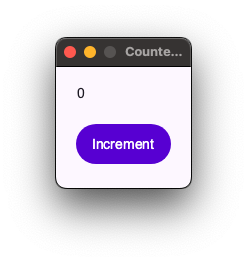
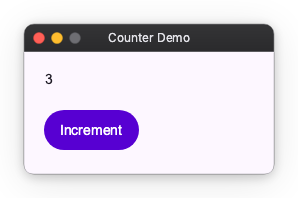
docs: fix outdated API references and simplify README examples (#109)
- Replace deprecated FilledButton/TextButton/OutlinedButton with Button
- Remove explicit style= arguments to use default Button style
- Remove explicit style= arguments from TextField in README
- Update design docs: NAVIGATION, STYLE_THEME, TEXT_EDITING
- Add readme samples to render_layout_images.py SAMPLES list
- Simplify sample main() signatures to accept png: str = '' directly
- Set sample preview values when rendering to PNG

diff --git a/src/samples/readme/readme_multi_counter_app.py b/src/samples/readme/readme_multi_counter_app.py
@@ -2,8 +2,6 @@ from __future__ import annotations
 import nuiitivet as nv
 import nuiitivet.material as md
 
-import argparse
-
 
 class MultiCounterApp(nv.ComposableWidget):
     def __init__(self) -> None:
@@ -24,14 +22,14 @@ class MultiCounterApp(nv.ComposableWidget):
                 nv.Row(
                     [
                         md.Text(self.count_a),
-                        md.FilledButton("+", on_click=self.increment_a),
+                        md.Button("+", on_click=self.increment_a),
                     ],
                     gap=12,
                 ),
                 nv.Row(
                     [
                         md.Text(self.count_b),
-                        md.FilledButton("+", on_click=self.increment_b),
+                        md.Button("+", on_click=self.increment_b),
                     ],
                     gap=12,
                 ),
@@ -42,20 +40,20 @@ class MultiCounterApp(nv.ComposableWidget):
         )
 
 
-def _parse_args() -> argparse.Namespace:
-    parser = argparse.ArgumentParser(description="README MultiCounterApp sample")
-    parser.add_argument("--png", type=str, default="", help="Render to PNG instead of opening a window")
-    return parser.parse_args()
+def main(png: str = "") -> None:
+    app_widget = MultiCounterApp()
+    if png:
+        app_widget.count_a.value = 3
+        app_widget.count_b.value = 5
+    app = md.App(
+        content=app_widget,
+        title_bar=nv.DefaultTitleBar(title="Multi Counter Demo"),
+        width=250,
+    )
 
-
-def main() -> None:
-    args = _parse_args()
-
-    app = md.App(content=MultiCounterApp())
-
-    if args.png:
-        app.render_to_png(args.png)
-        print(f"Rendered {args.png}")
+    if png:
+        app.render_to_png(png)
+        print(f"Rendered {png}")
         return
 
     app.run()

diff --git a/src/samples/readme/readme_counter_app.py b/src/samples/readme/readme_counter_app.py
@@ -2,8 +2,6 @@ from __future__ import annotations
 import nuiitivet as nv
 import nuiitivet.material as md
 
-import argparse
-
 
 class CounterApp(nv.ComposableWidget):
     def __init__(self) -> None:
@@ -17,7 +15,7 @@ class CounterApp(nv.ComposableWidget):
         return nv.Column(
             [
                 md.Text(self.count),
-                md.FilledButton(
+                md.Button(
                     "Increment",
                     on_click=self.increment,
                 ),
@@ -27,20 +25,19 @@ class CounterApp(nv.ComposableWidget):
         )
 
 
-def _parse_args() -> argparse.Namespace:
-    parser = argparse.ArgumentParser(description="README CounterApp sample")
-    parser.add_argument("--png", type=str, default="", help="Render to PNG instead of opening a window")
-    return parser.parse_args()
+def main(png: str = "") -> None:
+    app_widget = CounterApp()
+    if png:
+        app_widget.count.value = 3
+    app = md.App(
+        content=app_widget,
+        title_bar=nv.DefaultTitleBar(title="Counter Demo"),
+        width=250,
+    )
 
-
-def main() -> None:
-    args = _parse_args()
-
-    app = md.App(content=CounterApp(), title_bar=nv.DefaultTitleBar(title="Counter Demo"))
-
-    if args.png:
-        app.render_to_png(args.png)
-        print(f"Rendered {args.png}")
+    if png:
+        app.render_to_png(png)
+        print(f"Rendered {png}")
         return
 
     app.run()

diff --git a/src/samples/readme/readme_login_form.py b/src/samples/readme/readme_login_form.py
@@ -2,8 +2,6 @@ from __future__ import annotations
 import nuiitivet as nv
 import nuiitivet.material as md
 
-import argparse
-
 
 def build_login_form():
     return nv.Column(
@@ -12,15 +10,13 @@ def build_login_form():
                 value="",
                 label="Username",
                 width=300,
-                style=md.TextFieldStyle.outlined(),
             ),
             md.TextField(
                 value="",
                 label="Password",
                 width=300,
-                style=md.TextFieldStyle.outlined(),
             ),
-            md.FilledButton(
+            md.Button(
                 "Login",
                 on_click=lambda: print("Login clicked"),
                 width=300,
@@ -31,20 +27,12 @@ def build_login_form():
     )
 
 
-def _parse_args() -> argparse.Namespace:
-    parser = argparse.ArgumentParser(description="README login form sample")
-    parser.add_argument("--png", type=str, default="", help="Render to PNG instead of opening a window")
-    return parser.parse_args()
-
-
-def main() -> None:
-    args = _parse_args()
-
+def main(png: str = "") -> None:
     app = md.App(content=build_login_form(), title_bar=nv.DefaultTitleBar(title="Login Form"))
 
-    if args.png:
-        app.render_to_png(args.png)
-        print(f"Rendered {args.png}")
+    if png:
+        app.render_to_png(png)
+        print(f"Rendered {png}")
         return
 
     app.run()

diff --git a/src/samples/readme/readme_layout_demo.py b/src/samples/readme/readme_layout_demo.py
@@ -2,8 +2,6 @@ from __future__ import annotations
 import nuiitivet as nv
 import nuiitivet.material as md
 
-import argparse
-
 
 def build_layout_demo():
     return nv.Column(
@@ -13,8 +11,8 @@ def build_layout_demo():
             md.Text("Body", padding=10),
             nv.Row(
                 children=[
-                    md.FilledButton("OK"),
-                    md.TextButton("Cancel"),
+                    md.Button("OK"),
+                    md.Button("Cancel"),
                 ],
                 gap=12,
                 main_alignment="end",
@@ -27,20 +25,12 @@ def build_layout_demo():
     )
 
 
-def _parse_args() -> argparse.Namespace:
-    parser = argparse.ArgumentParser(description="README layout demo sample")
-    parser.add_argument("--png", type=str, default="", help="Render to PNG instead of opening a window")
-    return parser.parse_args()
-
-
-def main() -> None:
-    args = _parse_args()
-
+def main(png: str = "") -> None:
     app = md.App(content=build_layout_demo(), title_bar=nv.DefaultTitleBar(title="Layout Demo"))
 
-    if args.png:
-        app.render_to_png(args.png)
-        print(f"Rendered {args.png}")
+    if png:
+        app.render_to_png(png)
+        print(f"Rendered {png}")
         return
 
     app.run()

diff --git a/scripts/docs/render_layout_images.py b/scripts/docs/render_layout_images.py
@@ -84,6 +84,10 @@ SAMPLES = [
     ("src/samples/navigation/route.py", "navigation_route.png"),
     ("src/samples/navigation/intent.py", "navigation_intent.png"),
     ("src/samples/navigation/sub.py", "navigation_sub.png"),
+    # README samples
+    ("src/samples/readme/readme_login_form.py", "readme_login_form.png"),
+    ("src/samples/readme/readme_counter_app.py", "readme_counter.png"),
+    ("src/samples/readme/readme_multi_counter_app.py", "readme_multi_counter.png"),
 ]
 
 

diff --git a/README.md b/README.md
@@ -26,16 +26,14 @@ login_form = Column(
             value="",
             label="Username",
             width=300,
-            style=TextFieldStyle.outlined(),
         ),
         TextField(
             value="",
             label="Password",
             width=300,
-            style=TextFieldStyle.outlined(),
         ),
         # Login Button
-        FilledButton(
+        Button(
             "Login",
             on_click=lambda: print("Login clicked"),
             width=300,
@@ -135,7 +133,7 @@ class CounterApp(ComposableWidget):
                 # Count display
                 Text(self.count),
                 # Increment button
-                FilledButton(
+                Button(
                     "Increment",
                     on_click=self.increment,
                 )
@@ -176,14 +174,14 @@ You can read from the code that `total` is defined as the sum of `count_a` and `
                 Row(
                     [
                         Text(self.count_a.value),
-                        FilledButton("+", on_click=self.increment_a),
+                        Button("+", on_click=self.increment_a),
                     ],
                 ),
                 # Counter B
                 Row(
                     [
                         Text(self.count_b.value),
-                        FilledButton("+", on_click=self.increment_b),
+                        Button("+", on_click=self.increment_b),
                     ],
                 ),
                 # Just specify total!
@@ -222,7 +220,7 @@ class CounterApp(ComposableWidget):
         return Column(
             [
                 Text(f"count: {self.count.value}"),
-                FilledButton(
+                Button(
                     "Increment",
                     on_click=self.handle_increment,  # Execute on click
                 )
@@ -274,7 +272,7 @@ To create an application with Nuiitivet, follow these two steps:
 
 ```python
 from nuiitivet.material.app import MaterialApp
-from nuiitivet.material import Text, FilledButton
+from nuiitivet.material import Text, Button
 from nuiitivet.layout.column import Column
 from nuiitivet.observable import Observable
 from nuiitivet.widgeting.widget import ComposableWidget
@@ -297,7 +295,7 @@ class CounterApp(ComposableWidget):
         return Column(
             [
                 Text(self.count),
-                FilledButton(
+                Button(
                     "Increment",
                     on_click=self.handle_increment,
                 )

diff --git a/docs/design/STYLE_THEME.md b/docs/design/STYLE_THEME.md
@@ -361,35 +361,29 @@ src/nuiitivet/
 - Defines component tokens (container, label, etc.)
 - Our `Style` classes map directly to M3 component tokens
 
-## Example: Complete Button Styles in Theme
+## Example: Button Style Presets (Factory-Driven)
+
+Button styles are not stored as separate fields in `Theme`. Instead, `ButtonStyle` provides factory methods that generate M3-compliant presets, and the optional size variant is passed as an argument:
 
 ```python
-@dataclass(frozen=True)
-class Theme:
-    # ...existing fields...
-    
-    # Button style variants (M3)
-    filled_button_style: ButtonStyle = field(default_factory=lambda: ButtonStyle(
-        background=ColorRole.PRIMARY,
-        foreground=ColorRole.ON_PRIMARY,
-    ))
-    
-    text_button_style: ButtonStyle = field(default_factory=lambda: ButtonStyle(
-        background=None,
-        foreground=ColorRole.PRIMARY,
-        padding=10,
-        min_size=(64, 40),
-    ))
-    
-    outlined_button_style: ButtonStyle = field(default_factory=lambda: ButtonStyle(
-        background=None,
-        foreground=ColorRole.PRIMARY,
-        border_color=ColorRole.OUTLINE,
-        border_width=1.5,
-    ))
-    
-    # Helper method
-    def button_style_for(self, variant: str) -> ButtonStyle:
-        """Get button style for variant name."""
-        return getattr(self, f"{variant}_button_style", self.filled_button_style)
+# Filled button (M3 default)
+style = ButtonStyle.filled()
+
+# Text button
+style = ButtonStyle.text()
+
+# Outlined button
+style = ButtonStyle.outlined()
+
+# Size variant (e.g., small)
+style = ButtonStyle.filled("s")
 ```
+
+Usage at the call site:
+
+```python
+Button("OK", on_click=handler, style=ButtonStyle.filled())
+Button("Cancel", on_click=handler, style=ButtonStyle.text())
+```
+
+> **Historical note**: An earlier proposal stored per-variant fields (`filled_button_style`, `text_button_style`, `outlined_button_style`) directly on `Theme` and provided a `button_style_for(variant)` helper. This approach was replaced by the factory-driven design above to keep `Theme` focused on color/typography tokens.

diff --git a/docs/design/TEXT_EDITING.md b/docs/design/TEXT_EDITING.md
@@ -24,26 +24,22 @@ A simple structure holding `start` and `end` indices. It provides helper methods
 
 ### TextField Architecture (M3)
 
-The `TextField` widget follows the Material Design 3 specification and is structured to support multiple visual variants while sharing core logic.
+The `TextField` widget follows the Material Design 3 specification and uses a single class driven by a `TextFieldStyle` preset to support multiple visual variants.
 
-- **Base Class (`TextField`)**:
+- **Single Class (`TextField`)**:
   - Handles all interaction logic (focus, keyboard, mouse, IME).
   - Manages the internal state (`TextEditingValue`).
-  - Implements the core rendering pipeline (Template Method pattern).
-  - Defines abstract/hook methods for variant-specific rendering (e.g., `_draw_container`).
-
-- **Concrete Classes**:
-  - **`TextField`**: Implements the M3 "Filled" style with a background container and bottom indicator.
-  - **`TextField`**: Implements the M3 "Outlined" style with a border and transparent background.
+  - Implements the full rendering pipeline.
+  - Visual variant (filled / outlined) is determined by `TextFieldStyle.mode`.
 
 - **Styling (`TextFieldStyle`)**:
   - An immutable dataclass (`frozen=True`) defining all visual properties (colors, dimensions, fonts).
+  - `mode` field (`"filled"` | `"outlined"`) controls the visual variant.
   - Provides factory methods `TextFieldStyle.filled()` and `TextFieldStyle.outlined()` for default M3 configurations.
-  - Subclasses initialize their default style using these factories if no custom style is provided.
 
 - **Rendering Pipeline**:
-  The `paint` method in the base class orchestrates the drawing order:
-  1. `_draw_container` (Subclass responsibility)
+  The `paint` method orchestrates the drawing order based on `style.mode`:
+  1. `_draw_container` (filled background or outlined border)
   2. `_draw_label` (Floating label animation)
   3. `_draw_text_and_cursor` (Content)
   4. `_draw_icons` (Leading/Trailing icons)

diff --git a/docs/design/NAVIGATION.md b/docs/design/NAVIGATION.md
@@ -281,8 +281,8 @@ async def _on_will_pop(self) -> bool:
                 title=Text("Confirmation"),
                 content=Text("Go back without saving?"),
                 actions=[
-                    Button("Cancel", on_pressed=lambda: False, style=ButtonStyle.text()),
-                    Button("Back", on_pressed=lambda: True, style=ButtonStyle.text()),
+                    Button("Cancel", on_click=lambda: False, style=ButtonStyle.text()),
+                    Button("Back", on_click=lambda: True, style=ButtonStyle.text()),
                 ],
             )
         )
